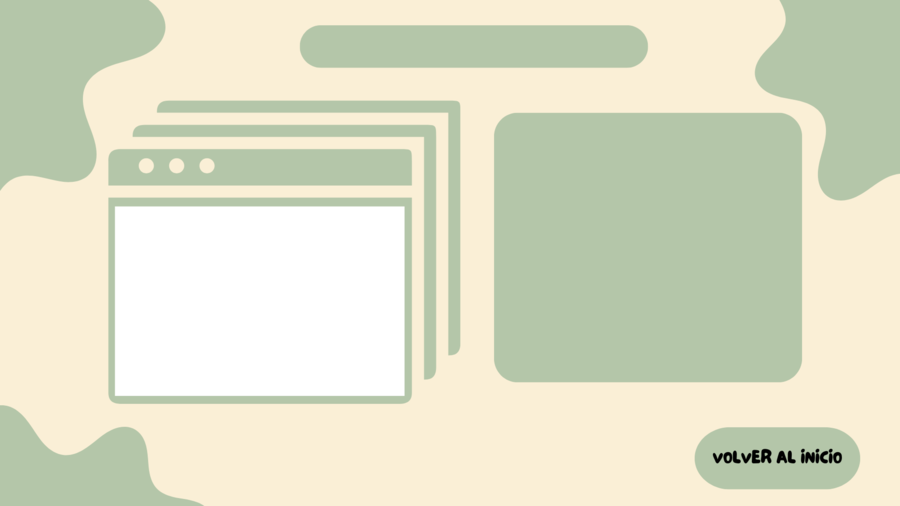
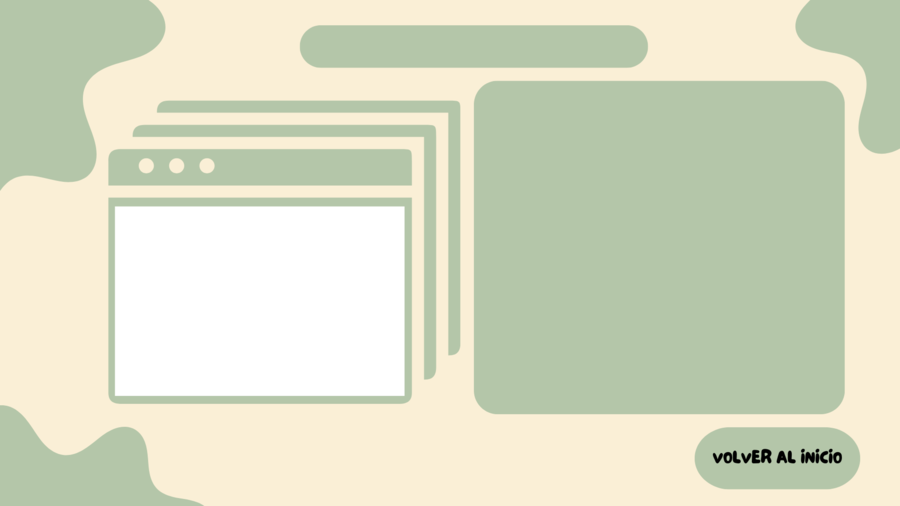
terminado

Changed region(s): [[0.5289, 0.0, 1.0, 0.83]]

diff --git a/EDICION/vista/Materiales.java b/EDICION/vista/Materiales.java
@@ -48,6 +48,7 @@ public class Materiales extends JDialog
         cbMaterial.setBounds(310, 30, 330, 30);
         lbImagen.add(cbMaterial);
         //agregar los materiales al jcombobox
+        cbMaterial.addItem("Seleccione un material");
         cbMaterial.addItem("Cartón");
         cbMaterial.addItem("Plástico");
         cbMaterial.addItem("Vidrio");
@@ -64,16 +65,20 @@ public class Materiales extends JDialog
         taResultado.setFont(new Font("Arial", Font.BOLD, 14));
         taResultado.setLineWrap(true);
         taResultado.setWrapStyleWord(true);
-        taResultado.setBounds(500, 120, 290, 250);
-        //taResultado.setBorder(BorderFactory.createRaisedBevelBorder());
+        taResultado.setBounds(490, 90, 340, 310);
         taResultado.setOpaque(false);
         lbImagen.add(taResultado);
         //Creación y adición del scroll
         spResultado = new JScrollPane(taResultado);
-        spResultado.setBounds(500, 120, 290, 250);
+        spResultado.setBounds(490, 90, 340, 310);
         spResultado.setOpaque(false);
+        spResultado.getVerticalScrollBar().setValue(0);
         spResultado.getViewport().setOpaque(false);
         lbImagen.add(spResultado);
+        //poner un mensaje que se borre cuando seleccione el material
+        taResultado.setText("Seleccione un material para ver su descripción");
+        
+        
         
         
 
@@ -81,16 +86,18 @@ public class Materiales extends JDialog
 
         
         // se agrega el logo
-        iLogo = new ImageIcon(getClass().getResource("imagenes/carton.png"));
+        iLogo = new ImageIcon(getClass().getResource("imagenes/reciclaje.png"));
         lbLogo = new JLabel(iLogo);
-        lbLogo.setOpaque(true);//
+        lbLogo.setOpaque(true);
         lbLogo.setBorder(BorderFactory.createRaisedBevelBorder());
         lbLogo.setBounds(114, 202, 290, 190);
         lbImagen.add(lbLogo);
 
-        //quiero que el logo cambie segun el material que se seleccione
-        cbMaterial.addActionListener(new java.awt.event.ActionListener() {
-            public void actionPerformed(java.awt.event.ActionEvent evt) {
+        //se crea un oyente para el jcombobox
+        cbMaterial.addActionListener(new java.awt.event.ActionListener() 
+        {
+            public void actionPerformed(java.awt.event.ActionEvent evt)//se crea un evento
+            {
                 if(cbMaterial.getSelectedItem().equals("Cartón"))
                 {
                     iLogo = new ImageIcon(getClass().getResource("imagenes/carton.png"));
@@ -146,27 +153,6 @@ public class Materiales extends JDialog
 
         
         
-
-
-        
-
-
-
-
-
-
-
-
-
-
-
-
-
-
-
-
-
-
 
 
 

diff --git a/EDICION/modelo/Plastico.java b/EDICION/modelo/Plastico.java
@@ -4,7 +4,7 @@ public class Plastico extends Material
 {
     public String Descripcion()
     {
-        return "Nombre: Plastico\n Descripcion: El plastico es un material ampliamente utilizado y reciclable que se puede transformar en nuevos productos.\n Para reciclar el plastico, sigue los siguientes pasos generales:\n 1. Clasifica el plastico segun su codigo de reciclaje, que suele estar marcado en el producto.\n 2. Limpia y enjuaga el plastico para eliminar restos de comida u otros contaminantes.\n 3. Verifica si el plastico es aceptado en el programa de reciclaje local o si hay centros de reciclaje especializados para ese tipo de plastico.\n 4. Deposita el plastico en el contenedor de reciclaje adecuado o llevalo al centro de reciclaje correspondiente.\n 5. En el centro de reciclaje, el plastico se clasificara, triturara y fundira para convertirlo en granulos o pellets.\n 6. Estos granulos de plastico reciclado se pueden utilizar para fabricar nuevos productos, como envases, textiles, muebles, etc.\n Reciclar plastico contribuye a reducir la cantidad de residuos, conservar los recursos y proteger el medio ambiente.\n Gracias por reciclar!";
+    return "Nombre: Plastico\n \nDescripcion: El plastico es un material ampliamente utilizado y reciclable que se puede transformar en nuevos productos.\n \nPara reciclar el plastico, sigue los siguientes pasos generales:\n \n1. Clasifica el plastico segun su codigo de reciclaje, que suele estar marcado en el producto.\n \n2. Limpia y enjuaga el plastico para eliminar restos de comida u otros contaminantes.\n \n3. Verifica si el plastico es aceptado en el programa de reciclaje local o si hay centros de reciclaje especializados para ese tipo de plastico.\n \n4. Deposita el plastico en el contenedor de reciclaje adecuado o llevalo al centro de reciclaje correspondiente.\n \n5. En el centro de reciclaje, el plastico se clasificara, triturara y fundira para convertirlo en granulos o pellets.\n \n6. Estos granulos de plastico reciclado se pueden utilizar para fabricar nuevos productos, como envases, textiles, muebles, etc.\n \nReciclar plastico contribuye a reducir la cantidad de residuos, conservar los recursos y proteger el medio ambiente.\n \nGracias por reciclar!";
     }
     
     //metodo para acceder al string de la descripcion

diff --git a/EDICION/modelo/Vidrio.java b/EDICION/modelo/Vidrio.java
@@ -4,7 +4,7 @@ public class Vidrio extends Material
 {
     public String Descripcion()
     {
-        return "Nombre: Vidrio\n Descripcion: El vidrio es un material 100% reciclable y se puede reciclar de manera indefinida sin perder calidad.\n Para reciclar vidrio, sigue estos pasos generales:\n 1. Clasifica el vidrio segun su color, como transparente, verde o Ambar.\n 2. Lava el vidrio para eliminar cualquier residuo o contaminante.\n 3. Retira las tapas, tapones o elementos no reciclables del vidrio.\n 4. Coloca el vidrio en los contenedores especificos para reciclaje de vidrio, generalmente ubicados en puntos de recogida selectiva o centros de reciclaje.\n 5. El vidrio reciclado se lleva a una planta de reciclaje donde se tritura y se funde a altas temperaturas para producir nuevos productos de vidrio.\n 6. Estos nuevos productos de vidrio reciclado incluyen botellas, frascos, envases y otros objetos de vidrio.\n Reciclar vidrio ayuda a conservar los recursos naturales, reducir el consumo de energia y disminuir los desechos en vertederos.\n Gracias por reciclar!";
+        return "Nombre: Vidrio\n \nDescripcion: El vidrio es un material 100% reciclable y se puede reciclar de manera indefinida sin perder calidad.\n Para reciclar vidrio, sigue estos pasos generales:\n \n1. Clasifica el vidrio segun su color, como transparente, verde o Ambar.\n \n2. Lava el vidrio para eliminar cualquier residuo o contaminante.\n \n3. Retira las tapas, tapones o elementos no reciclables del vidrio.\n \n4. Coloca el vidrio en los contenedores especificos para reciclaje de vidrio, generalmente ubicados en puntos de recogida selectiva o centros de reciclaje.\n \n5. El vidrio reciclado se lleva a una planta de reciclaje donde se tritura y se funde a altas temperaturas para producir nuevos productos de vidrio.\n \n6. Estos nuevos productos de vidrio reciclado incluyen botellas, frascos, envases y otros objetos de vidrio.\n \nReciclar vidrio ayuda a conservar los recursos naturales, reducir el consumo de energia y disminuir los desechos en vertederos.\n \nGracias por reciclar!";
     }
     
     //metodo para acceder al string de la descripcion

diff --git a/EDICION/modelo/Papel.java b/EDICION/modelo/Papel.java
@@ -4,7 +4,7 @@ public class Papel extends Material
 {
     public String Descripcion() 
     {
-        return "Nombre: Papel\n Descripcion: El papel es un material ampliamente reciclado y se puede reutilizar para crear nuevos productos de papel.\n Para reciclar papel, sigue estos pasos generales:\n 1. Clasifica el papel segun su tipo, como periodicos, revistas, cajas de carton, etc.\n 2. Si el papel esta en buenas condiciones, considera reutilizarlo en proyectos de arte o manualidades.\n 3. Si el papel esta dañado o no se puede reutilizar, busca instalaciones de reciclaje de papel cercanas.\n 4. En el centro de reciclaje, el papel se clasifica, se limpia y se tritura en una pasta.\n 5. La pasta se convierte en papel nuevo, que se puede utilizar para crear nuevos productos de papel.\n 6. Sigue las regulaciones locales y las practicas de reciclaje adecuadas para garantizar una disposicion adecuada del papel.\n Reciclar el papel ayuda a reducir la deforestacion y promueve un uso sostenible de los recursos forestales.\n Gracias por reciclar! ";
+        return "Nombre: Papel\n \nDescripcion: El papel es un material ampliamente reciclado y se puede reutilizar para crear nuevos productos de papel.\n Para reciclar papel, sigue estos pasos generales:\n \n1. Clasifica el papel segun su tipo, como periodicos, revistas, cajas de carton, etc.\n \n2. Si el papel esta en buenas condiciones, considera reutilizarlo en proyectos de arte o manualidades.\n \n3. Si el papel esta dañado o no se puede reutilizar, busca instalaciones de reciclaje de papel cercanas.\n \n4. En el centro de reciclaje, el papel se clasifica, se limpia y se tritura en una pasta.\n \n5. La pasta se convierte en papel nuevo, que se puede utilizar para crear nuevos productos de papel.\n \n6. Sigue las regulaciones locales y las practicas de reciclaje adecuadas para garantizar una disposicion adecuada del papel.\n \nReciclar el papel ayuda a reducir la deforestacion y promueve un uso sostenible de los recursos forestales.\n \nGracias por reciclar! ";
     }
     
     //metodo para acceder al string de la descripcion

diff --git a/EDICION/modelo/Madera.java b/EDICION/modelo/Madera.java
@@ -4,7 +4,9 @@ public class Madera extends Material
 {
     public String Descripcion() 
     {
-        return "Nombre: Madera\n Descripcion: La madera es un material ampliamente utilizado y facilmente reciclable.\n Para reciclar la madera, sigue los siguientes pasos:\n 1. Clasifica la madera segun su estado y caracteristicas, como madera solida, contrachapado o astillas.\n 2. Si la madera esta en buenas condiciones, considera reutilizarla en proyectos de carpinteria o construccion.\n 3. Si la madera esta dañada o no se puede reutilizar, busca instalaciones de reciclaje de madera cercanas.\n 4. En el centro de reciclaje, la madera puede ser triturada, convertida en astillas o utilizada para generar energia.\n 5. Sigue las regulaciones locales y las practicas de reciclaje adecuadas para garantizar una disposicion adecuada de la madera.\n Reciclar la madera ayuda a reducir la deforestacion y promueve un uso sostenible de los recursos forestales.\n Gracias por reciclar!";
+        return "Nombre: Madera\n \n Descripcion: La madera es un material ampliamente utilizado y facilmente reciclable.\n  Para reciclar la madera, sigue los siguientes pasos:\n 1. Clasifica la madera segun su estado y caracteristicas, como madera solida, contrachapado o astillas.\n \n 2. Si la madera esta en buenas condiciones, considera reutilizarla en proyectos de carpinteria o construccion.\n \n3. Si la madera esta dañada o no se puede reutilizar, busca instalaciones de reciclaje de madera cercanas.\n \n4. En el centro de reciclaje, la madera puede ser triturada, convertida en astillas o utilizada para generar energia.\n \n5. Sigue las regulaciones locales y las practicas de reciclaje adecuadas para garantizar una disposicion adecuada de la madera.\n \nReciclar la madera ayuda a reducir la deforestacion y promueve un uso sostenible de los recursos forestales.\n \nGracias por reciclar!";
+        
+
     }
     
     //metodo para acceder al string de la descripcion

diff --git a/EDICION/modelo/Metal.java b/EDICION/modelo/Metal.java
@@ -4,7 +4,7 @@ public class Metal extends Material
 {
     public String Descripcion() 
     {
-        return "Nombre: Metal\n Descripcion: El metal es un material ampliamente utilizado y facilmente reciclable.\n Para reciclar el metal, sigue los siguientes pasos:\n 1. Clasifica el metal segun su tipo, como aluminio, acero o hierro.\n 2. Si el metal esta en buenas condiciones, considera reutilizarlo en proyectos de construccion o fabricacion.\n 3. Si el metal esta dañado o no se puede reutilizar, busca instalaciones de reciclaje de metal cercanas.\n 4. En el centro de reciclaje, el metal puede ser fundido y convertido en nuevos productos.\n 5. Sigue las regulaciones locales y las practicas de reciclaje adecuadas para garantizar una disposicion adecuada del metal.\n Reciclar el metal ayuda a reducir la contaminacion y promueve un uso sostenible de los recursos naturales.\n Gracias por reciclar!";
+        return "Nombre: Metal\n \nDescripcion: El metal es un material ampliamente utilizado y facilmente reciclable.\n Para reciclar el metal, sigue los siguientes pasos:\n \n1. Clasifica el metal segun su tipo, como aluminio, acero o hierro.\n \n2. Si el metal esta en buenas condiciones, considera reutilizarlo en proyectos de construccion o fabricacion.\n \n3. Si el metal esta dañado o no se puede reutilizar, busca instalaciones de reciclaje de metal cercanas.\n \n4. En el centro de reciclaje, el metal puede ser fundido y convertido en nuevos productos.\n \n5. Sigue las regulaciones locales y las practicas de reciclaje adecuadas para garantizar una disposicion adecuada del metal.\n \nReciclar el metal ayuda a reducir la contaminacion y promueve un uso sostenible de los recursos naturales.\n \nGracias por reciclar!";
     }
     
     //metodo para acceder al string de la descripcion

diff --git a/EDICION/modelo/Carton.java b/EDICION/modelo/Carton.java
@@ -4,7 +4,7 @@ public class Carton extends Material
 {
     public String Descripcion() 
     {
-        return "Nombre: Carton\n Descripcion: El carton es un material ampliamente utilizado y facilmente reciclable.\n Para reciclar el carton, sigue los siguientes pasos:\n 1. Asegurate de eliminar cualquier cinta adhesiva, etiquetas o elementos no reciclables del carton.\n 2. Si es posible, aplasta o pliega el carton para reducir su volumen y facilitar su transporte.\n 3. Coloca el carton en el contenedor de reciclaje especifico para papel y carton.\n 4. Si no tienes acceso a un contenedor de reciclaje, puedes llevar el carton a un centro de reciclaje cercano.\n 5. Recuerda seguir las instrucciones locales de reciclaje y contribuir al cuidado del medio ambiente.\n Gracias por reciclar!";
+        return "Nombre: Carton\n \nDescripcion: El carton es un material ampliamente utilizado y facilmente reciclable.\n \nPara reciclar el carton, sigue los siguientes pasos:\n \n1. Asegurate de eliminar cualquier cinta adhesiva, etiquetas o elementos no reciclables del carton.\n \n2. Si es posible, aplasta o pliega el carton para reducir su volumen y facilitar su transporte.\n \n. Coloca el carton en el contenedor de reciclaje especifico para papel y carton.\n \n4. Si no tienes acceso a un contenedor de reciclaje, puedes llevar el carton a un centro de reciclaje cercano.\n \n5. Recuerda seguir las instrucciones locales de reciclaje y contribuir al cuidado del medio ambiente.\n \nGracias por reciclar!";
     }
     
     //metodo para acceder al string de la descripcion

diff --git a/EDICION/controlador/Controlador.java b/EDICION/controlador/Controlador.java
@@ -109,7 +109,7 @@ public class Controlador implements ActionListener
             //abrir una pagina web con el navegador por defecto
             try
             {
-                Runtime.getRuntime().exec("cmd.exe /c start https://www.ecoembes.com/es/residuos");
+                Runtime.getRuntime().exec("cmd.exe /c start https://uisreciclaap.blogspot.com/2023/06/el-reciclaje-es-el-proceso-de-convertir.html#more");
             }
             catch(Exception e)
             {

diff --git a/EDICION/modelo/Otros.java b/EDICION/modelo/Otros.java
@@ -2,5 +2,14 @@ package modelo;
 
 public class Otros extends Material
 {
-
+    public String Descripcion() 
+    {
+        return "existen otros tipos de materiales como lo son los organicos que se pueden reciclar y reutilizar para crear nuevos productos. como composta, abono, etc. ";
+    }
+    
+    //metodo para acceder al string de la descripcion
+    public String toString()
+    {
+        return Descripcion();
+    }
 }
